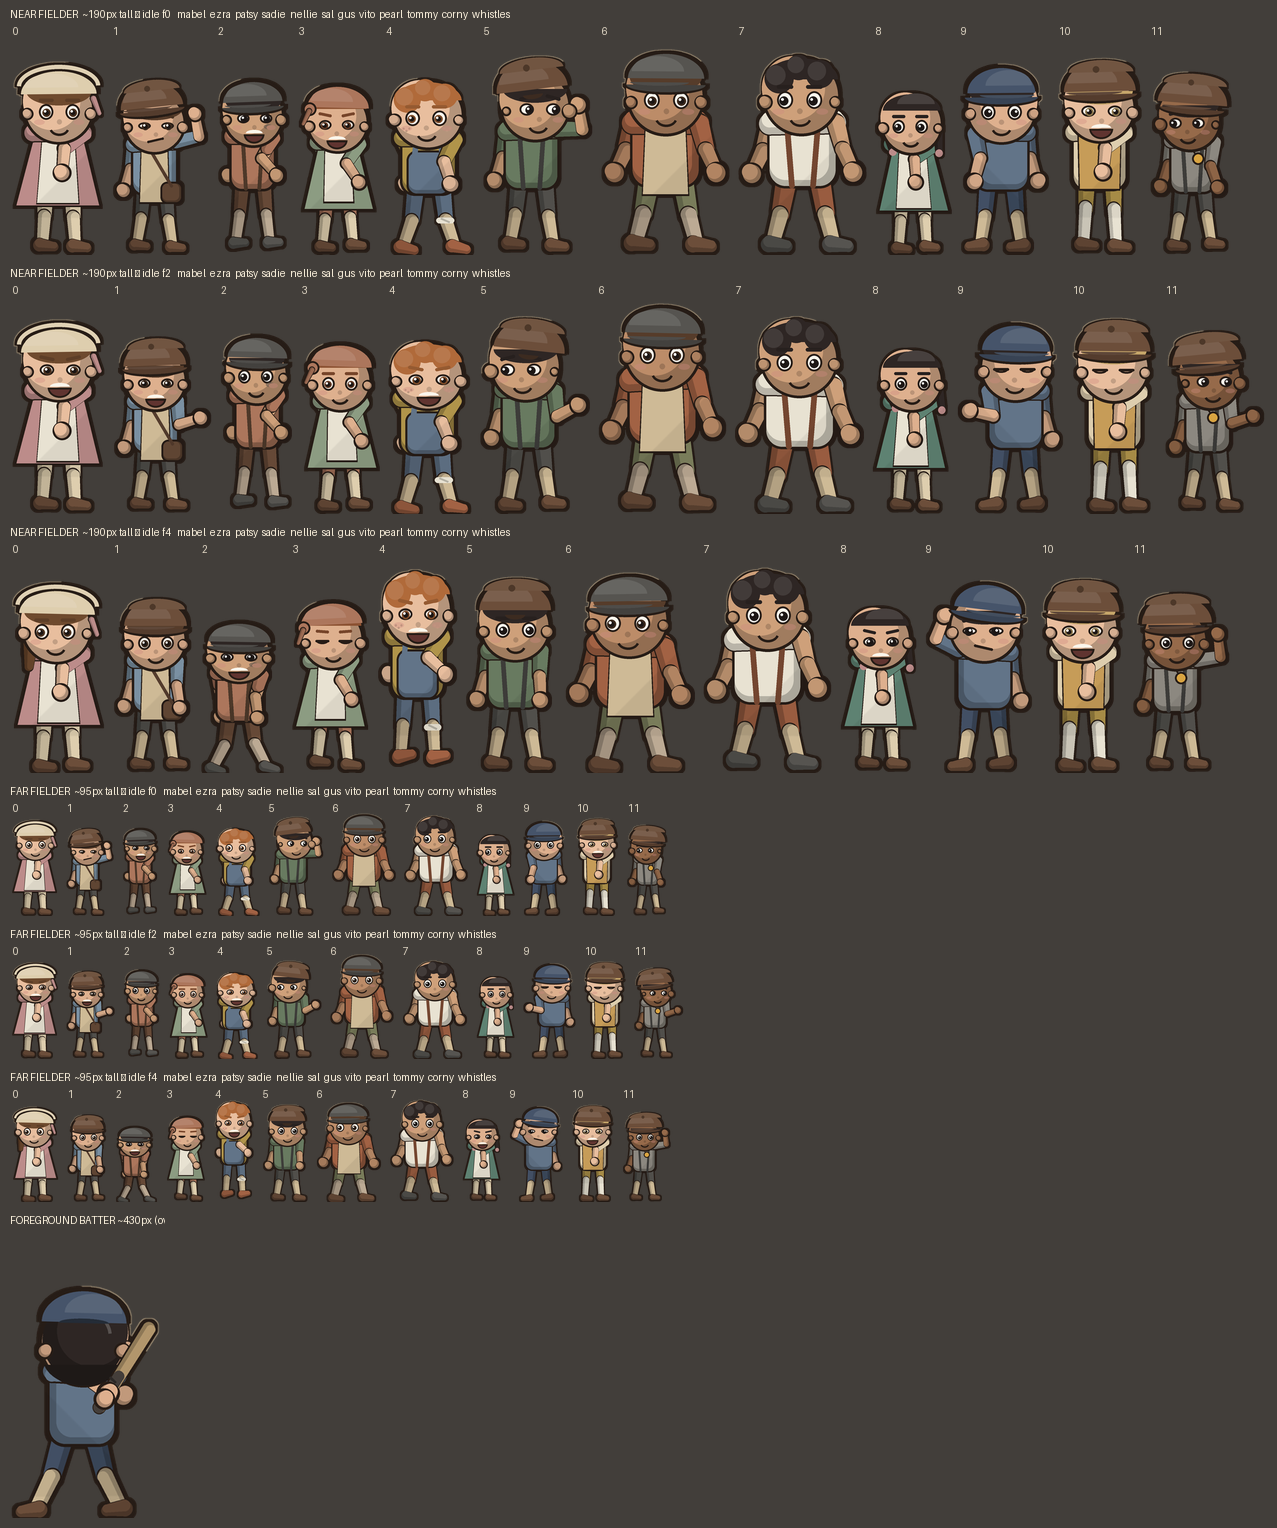
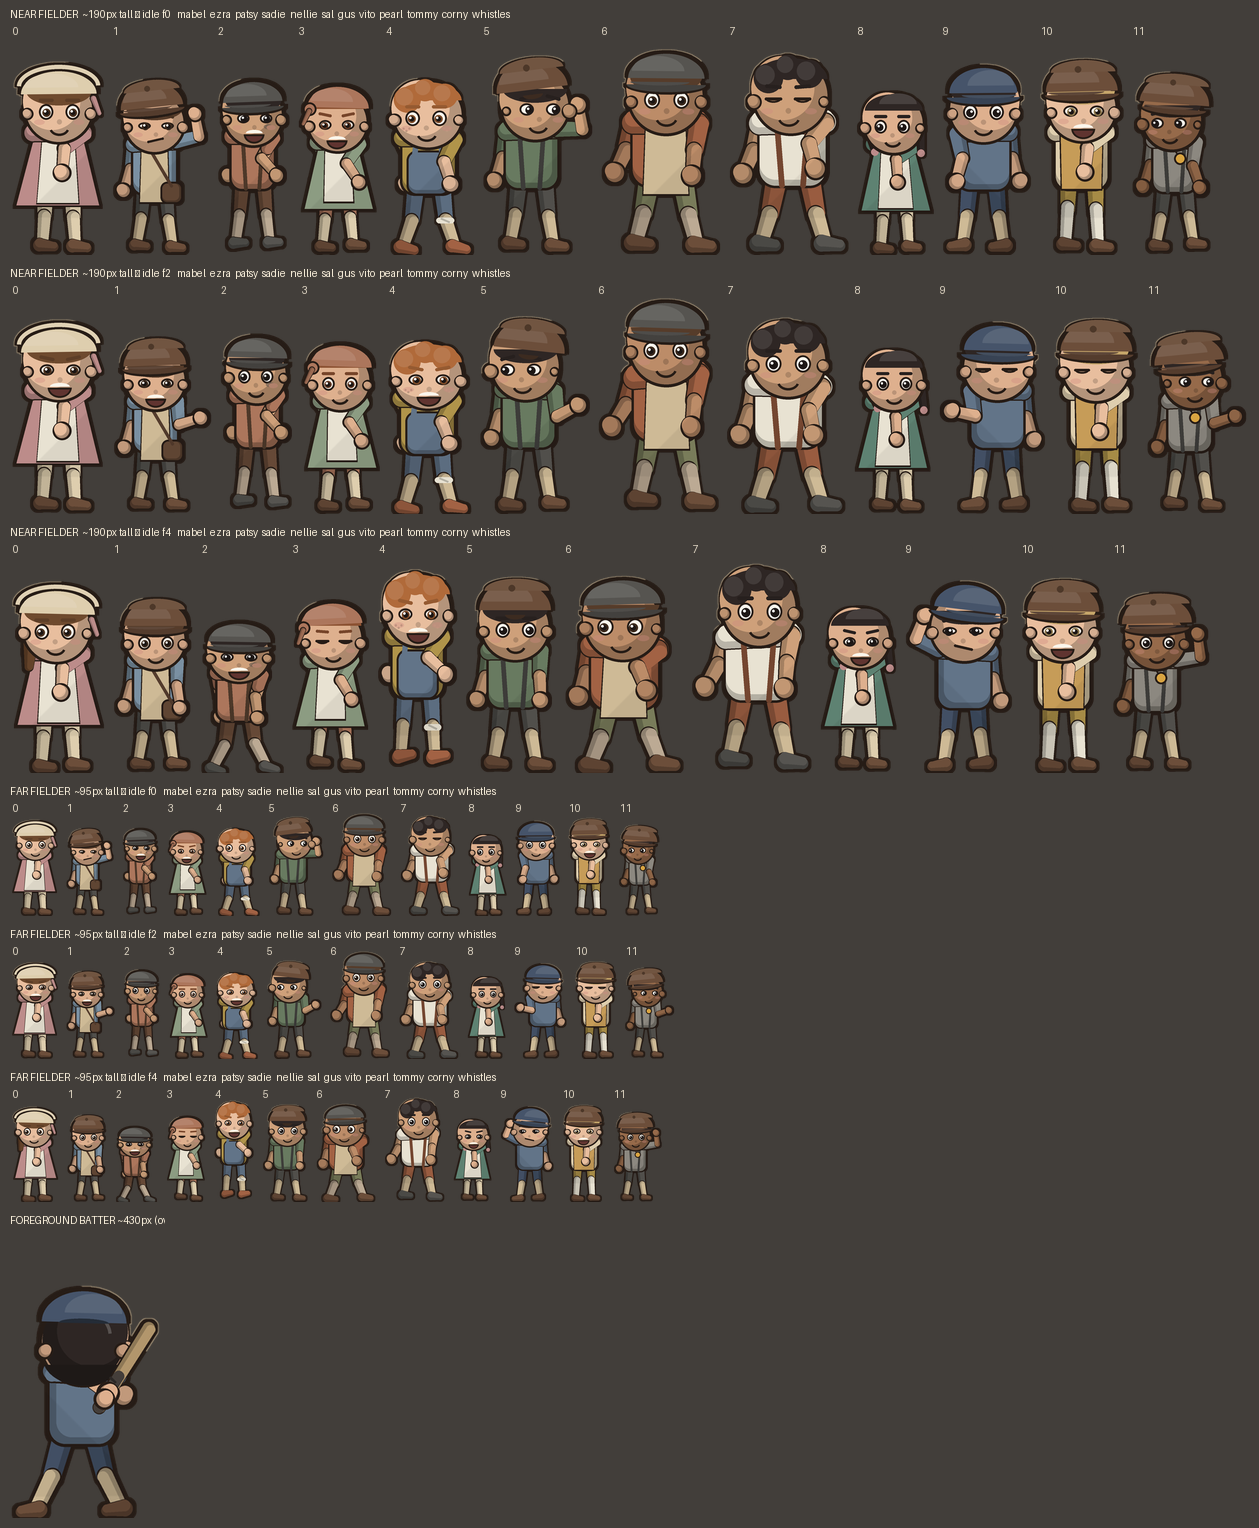
Measure the bat as part of asset generation, and refuse to write nothing
The character art was regenerated between one capture and the next while
the measured bat positions stayed behind, so the game aimed the ball at
where the barrel used to be. That drift is not something to remember to
avoid — gen_assets.py now re-measures the swing right after it draws the
kids, so the numbers cannot be stale.

bat_geometry.build() also now refuses to write an empty result. Pointing
it at the wrong directory silently produced a valid, empty JSON file,
which strips every bat position and drops the game back to a single
fallback constant with no error anywhere. A run that finds no swing
frames is a broken run, not an empty one.

Claude-Session: https://claude.ai/code/session_01EAhAdM4K8KttNcwM1gG72N

diff --git a/threesewers/tools/gen_assets.py b/threesewers/tools/gen_assets.py
@@ -28,6 +28,7 @@ import time
 sys.path.insert(0, os.path.dirname(os.path.abspath(__file__)))
 
 import art_backdrop
+import bat_geometry
 import art_cards
 import art_chars
 import art_night
@@ -72,6 +73,12 @@ def main(out_root=None):
     art_cards.build(chars, art_chars.portrait)
     print("street  ...", flush=True)
     art_backdrop.build(bg, props, chars)
+    # Where the bat is at each frame of the swing is a fact about the art the
+    # game has to know, and it drifts silently every time the kids are
+    # redrawn — it already did once, between a regeneration and a capture.
+    # Measuring it here means it can never be stale.
+    print("bat     ...", flush=True)
+    bat_geometry.build(chars)
 
     print("\n%d props, %d character frames + cards, %d ui, %d backdrops "
           "in %.0fs -> %s"

diff --git a/threesewers/tools/bat_geometry.py b/threesewers/tools/bat_geometry.py
@@ -82,6 +82,11 @@ def build(chars_dir=None, out_path=None):
     chars_dir = chars_dir or os.path.join(ROOT, "assets", "characters")
     out_path = out_path or os.path.join(ROOT, "data", "bat_geometry.json")
     data = measure(chars_dir)
+    if not data:
+        # Writing an empty file here would silently strip the game of every
+        # bat position and send it back to the fallback constant. A run that
+        # found nothing is a broken run, not an empty result.
+        raise SystemExit("bat_geometry: no swing frames found in %s" % chars_dir)
     os.makedirs(os.path.dirname(out_path), exist_ok=True)
     with open(out_path, "w") as fh:
         json.dump(data, fh, indent=1, sort_keys=True)
